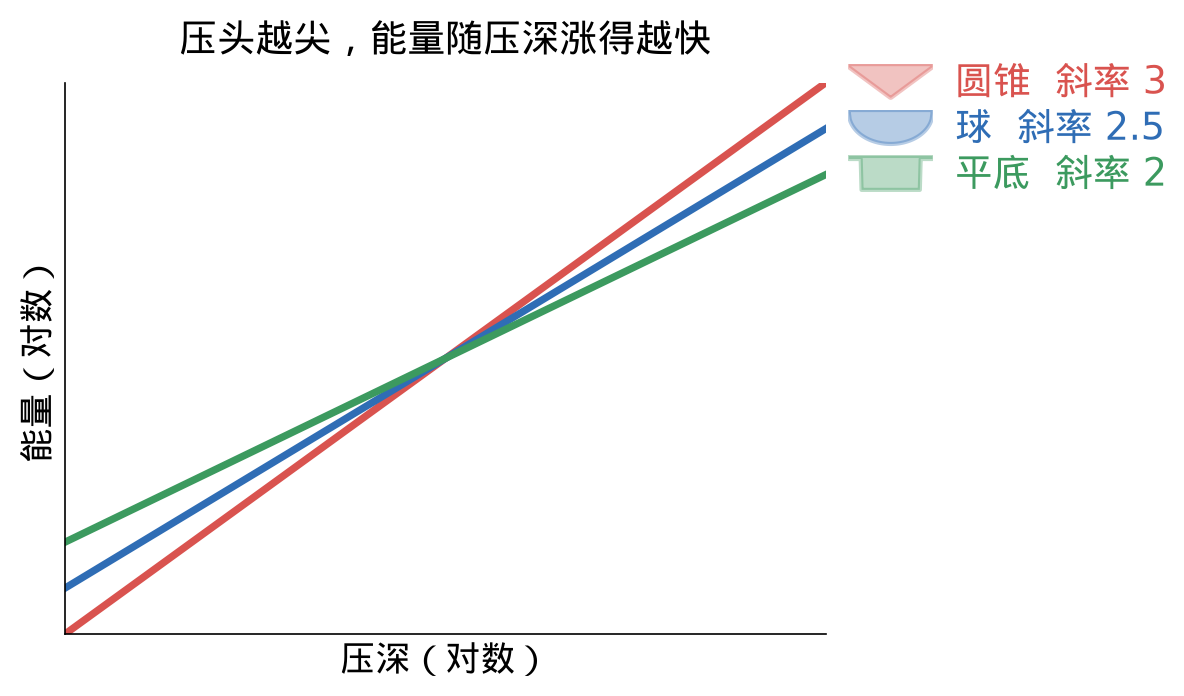
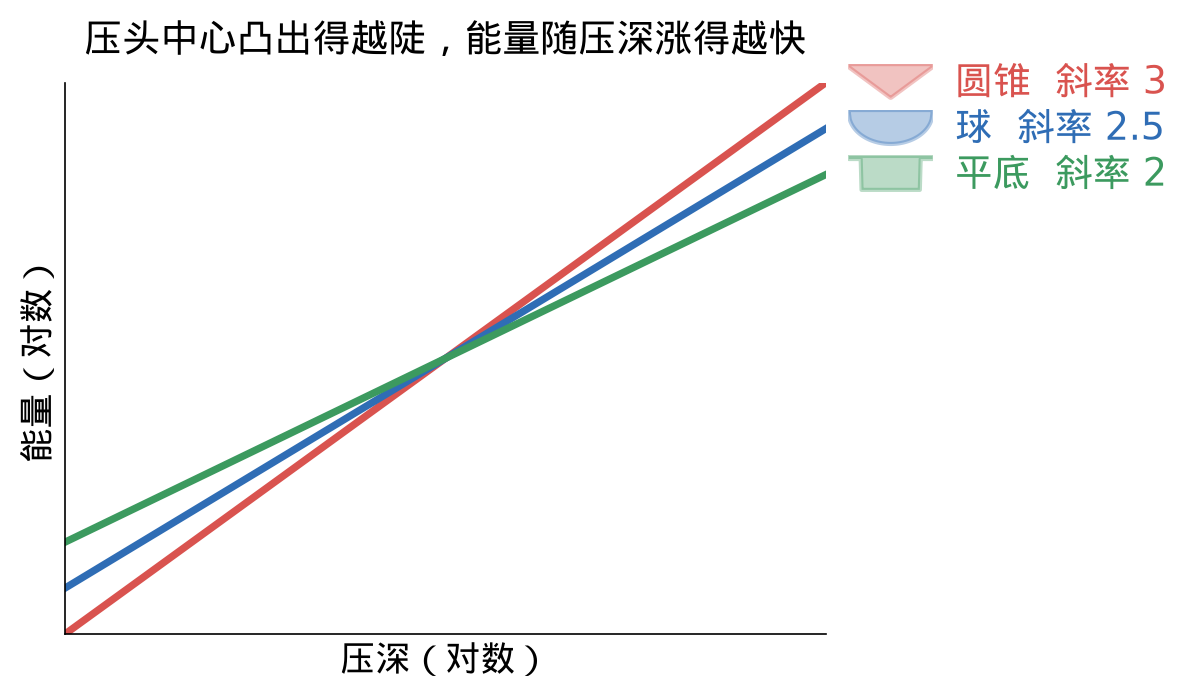
week3_4: 4.2 under rule 7; fig05 title and captions without 尖 (sandbox 87c9db3)

Changed region(s): [[0.0625, 0.0302, 0.6875, 0.0905]]

diff --git a/week3_4.html b/week3_4.html
@@ -254,7 +254,7 @@ footer.foot { color: var(--muted); font-size: 0.8rem; border-top: 1px solid var(
 
 <p>结果：球（\(n=2\)）是 2.5 次方，圆锥（\(n=1\)）是 3 次方，平底（\(n\to\infty\)）是 2 次方。压头中心凸出得越陡 → 能量随压深涨得越快，因为接触面积随压深涨得越快。</p>
 
-<figure style="margin:12px 0"><img src="assets/images/w34_fig05_power_law.png" style="width:548px;max-width:100%;height:auto" alt="这张图展示了压头形状怎样决定能量随压深涨得多快。横轴是压深，纵轴是能量，都取对数，所以每条线的斜率就是能量随压深的幂次，右边的小图标画的是对应的压头形状。通过对比红色圆锥线、蓝色球线、绿色平底线的倾斜程度，可以看出圆锥最陡（斜率 3），球居中（2.5），平底最缓（2），因为压头越尖，压深加大时接触面积涨得越快，能量也涨得越快。三条线的高低没有意义，只比斜率。" loading="lazy"><figcaption class="small">这张图展示了压头形状怎样决定能量随压深涨得多快。横轴是压深，纵轴是能量，都取对数，所以每条线的斜率就是能量随压深的幂次，右边的小图标画的是对应的压头形状。通过对比红色圆锥线、蓝色球线、绿色平底线的倾斜程度，可以看出圆锥最陡（斜率 3），球居中（2.5），平底最缓（2），因为压头越尖，压深加大时接触面积涨得越快，能量也涨得越快。三条线的高低没有意义，只比斜率。</figcaption></figure>
+<figure style="margin:12px 0"><img src="assets/images/w34_fig05_power_law.png" style="width:548px;max-width:100%;height:auto" alt="这张图展示了压头形状怎样决定能量随压深涨得多快。横轴是压深，纵轴是能量，都取对数，所以每条线的斜率就是能量随压深的幂次，右边的小图标画的是对应的压头形状。通过对比红色圆锥线、蓝色球线、绿色平底线的倾斜程度，可以看出圆锥最陡（斜率 3），球居中（2.5），平底最缓（2），因为压头中心凸出得越陡，压深加大时接触面积涨得越快，能量也涨得越快。三条线的高低没有意义，只比斜率。" loading="lazy"><figcaption class="small">这张图展示了压头形状怎样决定能量随压深涨得多快。横轴是压深，纵轴是能量，都取对数，所以每条线的斜率就是能量随压深的幂次，右边的小图标画的是对应的压头形状。通过对比红色圆锥线、蓝色球线、绿色平底线的倾斜程度，可以看出圆锥最陡（斜率 3），球居中（2.5），平底最缓（2），因为压头中心凸出得越陡，压深加大时接触面积涨得越快，能量也涨得越快。三条线的高低没有意义，只比斜率。</figcaption></figure>
 <details><summary>推导</summary><p>式 (4)–(6) 与「降维法」一节 ① 的起点式相同，按那一节的推导，它们给出：</p>
 <p>\[d=g(a),\qquad U_0=E^*\int_0^a\big(d-g(x)\big)^2dx,\qquad g(x)=|x|\int_0^{|x|}\frac{h&#x27;(r)}{\sqrt{x^2-r^2}}\,dr\]</p>
 <p>由式 (11) \(h=c\,r^n\) 得 \(h&#x27;(r)=c\,n\,r^{n-1}\)，代入 \(g\) 的积分，令 \(r=|x|\,t\)：</p>
@@ -296,9 +296,9 @@ footer.foot { color: var(--muted); font-size: 0.8rem; border-top: 1px solid var(
 </table></div>
 <p>比值越接近 1，标签越准。能量随压深的幂次（圆锥、\(y=c\,r^{1.5}\)、\(y=c\,r^{4}\)），标签给出 2.975 / 2.652 / 2.260，解析解是 3 / 2.667 / 2.25。</p>
 <figure style="margin:12px 0"><img src="assets/images/w34_s31_indenters_scene.png" style="width:850px;max-width:100%;height:auto" alt="这张图是 3.1 节四组实验压之前的样子，画的是过压头中心的剖面，竖直方向放大 4 倍，灰色是刚性压头，蓝色是软块。从左到右是平底圆柱、圆锥、轮廓高度随半径的 1.5 次方增长的曲面、半径 22.5 的大球冠，最右边那块软块只有 0.1 厚，底面粘在不动的底座上，所以下边缘在画面里能看到。下一张图是同样四组压到最深时的样子。" loading="lazy"><figcaption class="small">这张图是 3.1 节四组实验压之前的样子，画的是过压头中心的剖面，竖直方向放大 4 倍，灰色是刚性压头，蓝色是软块。从左到右是平底圆柱、圆锥、轮廓高度随半径的 1.5 次方增长的曲面、半径 22.5 的大球冠，最右边那块软块只有 0.1 厚，底面粘在不动的底座上，所以下边缘在画面里能看到。下一张图是同样四组压到最深时的样子。</figcaption></figure>
-<figure style="margin:12px 0"><img src="assets/images/w34_s31_indenters_pressed.png" style="width:850px;max-width:100%;height:auto" alt="这张图是 3.1 节和解析解对照的四组实验，每组都是一个灰色刚性压头压进一块蓝色软块（杨氏模量 1e5），画的是压到最深时过压头中心的剖面，竖直方向放大 4 倍。左上、右上、左下、右下依次是：半径 0.25 的平底圆柱压下 0.024；圆锥压下 0.012；轮廓高度随半径的 1.5 次方增长的曲面压下 0.024；半径 22.5 的大球冠压在只有 0.1 厚、底面粘牢的薄层上，压下 0.005。这四种形状的接触都有精确的解析解，表里的「标签 ÷ 解析解」就是拿这四组仿真算出的能量去除对应的解析能量。四幅剖面上描红的一段是 IPC 实际施加了接触力的块节点（压头的点落在块的三角形上时力分到三角形三个角，两条棱靠近时分到块那条棱的两端，所以红段比真正贴住的地方长出约一个网格单元），最深一档整面受力节点依次 399、161、137、1193 个。圆锥和 1.5 次方曲面这种尖的压头，主要是压头的点碰块的面，只量块上的点会漏掉，所以要两个方向都算。" loading="lazy"><figcaption class="small">这张图是 3.1 节和解析解对照的四组实验，每组都是一个灰色刚性压头压进一块蓝色软块（杨氏模量 1e5），画的是压到最深时过压头中心的剖面，竖直方向放大 4 倍。左上、右上、左下、右下依次是：半径 0.25 的平底圆柱压下 0.024；圆锥压下 0.012；轮廓高度随半径的 1.5 次方增长的曲面压下 0.024；半径 22.5 的大球冠压在只有 0.1 厚、底面粘牢的薄层上，压下 0.005。这四种形状的接触都有精确的解析解，表里的「标签 ÷ 解析解」就是拿这四组仿真算出的能量去除对应的解析能量。四幅剖面上描红的一段是 IPC 实际施加了接触力的块节点（压头的点落在块的三角形上时力分到三角形三个角，两条棱靠近时分到块那条棱的两端，所以红段比真正贴住的地方长出约一个网格单元），最深一档整面受力节点依次 399、161、137、1193 个。圆锥和 1.5 次方曲面这种尖的压头，主要是压头的点碰块的面，只量块上的点会漏掉，所以要两个方向都算。</figcaption></figure>
+<figure style="margin:12px 0"><img src="assets/images/w34_s31_indenters_pressed.png" style="width:850px;max-width:100%;height:auto" alt="这张图是 3.1 节和解析解对照的四组实验，每组都是一个灰色刚性压头压进一块蓝色软块（杨氏模量 1e5），画的是压到最深时过压头中心的剖面，竖直方向放大 4 倍。左上、右上、左下、右下依次是：半径 0.25 的平底圆柱压下 0.024；圆锥压下 0.012；轮廓高度随半径的 1.5 次方增长的曲面压下 0.024；半径 22.5 的大球冠压在只有 0.1 厚、底面粘牢的薄层上，压下 0.005。这四种形状的接触都有精确的解析解，表里的「标签 ÷ 解析解」就是拿这四组仿真算出的能量去除对应的解析能量。四幅剖面上描红的一段是 IPC 实际施加了接触力的块节点（压头的点落在块的三角形上时力分到三角形三个角，两条棱靠近时分到块那条棱的两端，所以红段比真正贴住的地方长出约一个网格单元），最深一档整面受力节点依次 399、161、137、1193 个。圆锥和 1.5 次方曲面这种中心凸出很陡的压头，主要是压头最前端的一点碰块的面，只量块上的点会漏掉，所以要两个方向都算。" loading="lazy"><figcaption class="small">这张图是 3.1 节和解析解对照的四组实验，每组都是一个灰色刚性压头压进一块蓝色软块（杨氏模量 1e5），画的是压到最深时过压头中心的剖面，竖直方向放大 4 倍。左上、右上、左下、右下依次是：半径 0.25 的平底圆柱压下 0.024；圆锥压下 0.012；轮廓高度随半径的 1.5 次方增长的曲面压下 0.024；半径 22.5 的大球冠压在只有 0.1 厚、底面粘牢的薄层上，压下 0.005。这四种形状的接触都有精确的解析解，表里的「标签 ÷ 解析解」就是拿这四组仿真算出的能量去除对应的解析能量。四幅剖面上描红的一段是 IPC 实际施加了接触力的块节点（压头的点落在块的三角形上时力分到三角形三个角，两条棱靠近时分到块那条棱的两端，所以红段比真正贴住的地方长出约一个网格单元），最深一档整面受力节点依次 399、161、137、1193 个。圆锥和 1.5 次方曲面这种中心凸出很陡的压头，主要是压头最前端的一点碰块的面，只量块上的点会漏掉，所以要两个方向都算。</figcaption></figure>
 <figure style="margin:12px 0"><img src="assets/images/w34_s3_1_ratio.png" style="width:524px;max-width:100%;height:auto" alt="这张图展示了四种压头上标签和解析解相差不到 1.2%。四列蓝点各是一种压头，每个点是一个压深或一个压头尺寸下的「标签 ÷ 解析解」，列上方的数字是这一列的最小到最大值，绿色实线是比值 1；蓝点都贴着绿线，往下最多偏 0.6%，往上最远的是圆锥的 1.011，所以这四种形状上的标签可信。" loading="lazy"><figcaption class="small">这张图展示了四种压头上标签和解析解相差不到 1.2%。四列蓝点各是一种压头，每个点是一个压深或一个压头尺寸下的「标签 ÷ 解析解」，列上方的数字是这一列的最小到最大值，绿色实线是比值 1；蓝点都贴着绿线，往下最多偏 0.6%，往上最远的是圆锥的 1.011，所以这四种形状上的标签可信。</figcaption></figure>
-<figure style="margin:12px 0"><img src="assets/images/w34_s3_1_slope.png" style="width:592px;max-width:100%;height:auto" alt="这张图展示了标签能量随压深增长的幂次和解析解一致。图用双对数坐标，幂函数在这种坐标里是直线，斜率就是幂次；三条实线是三种压头的标签能量，都除以各自第一个压深的能量、从 1 出发，同色虚线是解析解的斜率，两者重合，右侧标出的拟合幂次 2.97、2.65、2.26 与解析的 3、2.67、2.25 相差不到 1%，所以「压头越尖、能量随压深涨得越快」这个规律标签也给对了。" loading="lazy"><figcaption class="small">这张图展示了标签能量随压深增长的幂次和解析解一致。图用双对数坐标，幂函数在这种坐标里是直线，斜率就是幂次；三条实线是三种压头的标签能量，都除以各自第一个压深的能量、从 1 出发，同色虚线是解析解的斜率，两者重合，右侧标出的拟合幂次 2.97、2.65、2.26 与解析的 3、2.67、2.25 相差不到 1%，所以「压头越尖、能量随压深涨得越快」这个规律标签也给对了。</figcaption></figure>
+<figure style="margin:12px 0"><img src="assets/images/w34_s3_1_slope.png" style="width:592px;max-width:100%;height:auto" alt="这张图展示了标签能量随压深增长的幂次和解析解一致。图用双对数坐标，幂函数在这种坐标里是直线，斜率就是幂次；三条实线是三种压头的标签能量，都除以各自第一个压深的能量、从 1 出发，同色虚线是解析解的斜率，两者重合，右侧标出的拟合幂次 2.97、2.65、2.26 与解析的 3、2.67、2.25 相差不到 1%，所以「压头中心凸出得越陡、能量随压深涨得越快」这个规律标签也给对了。" loading="lazy"><figcaption class="small">这张图展示了标签能量随压深增长的幂次和解析解一致。图用双对数坐标，幂函数在这种坐标里是直线，斜率就是幂次；三条实线是三种压头的标签能量，都除以各自第一个压深的能量、从 1 出发，同色虚线是解析解的斜率，两者重合，右侧标出的拟合幂次 2.97、2.65、2.26 与解析的 3、2.67、2.25 相差不到 1%，所以「压头中心凸出得越陡、能量随压深涨得越快」这个规律标签也给对了。</figcaption></figure>
 <p>同样这三种幂律压头，按球调好参数的 hydro 最大误差依次是 26%、35%、68%：它的能量只看重叠了多少，压头形状一变，能量随压深的幂次就对不上，越偏离球误差越大。</p>
 <h3>两个相同软球同时放大一倍</h3>
 
@@ -449,13 +449,19 @@ footer.foot { color: var(--muted); font-size: 0.8rem; border-top: 1px solid var(
 
 <p>已知：三种情况的物体、位置、压深都一样；求：「同时压」与「单独压之和」的关系，hydro 与真值各是多少。</p>
 
-<p>\[\begin{cases}\color{#c0392b}{U^{\text{hydro}}_③=U^{\text{hydro}}_①+U^{\text{hydro}}_②} &amp; \color{#c0392b}{(1)}\\[4pt] \color{#c0392b}{U_③=c\,(U_①+U_②),\quad c&lt;1} &amp; \color{#c0392b}{(2)}\end{cases}\ \color{#c0392b}{\Longrightarrow\ \frac{U^{\text{hydro}}_③}{U^{\text{hydro}}_①+U^{\text{hydro}}_②}=1\ne c=\frac{U_③}{U_①+U_②}}\]</p>
-<p>式 (1)：\(U^{\text{hydro}}_①\)、\(U^{\text{hydro}}_②\)、\(U^{\text{hydro}}_③\) 是 hydro 在 P 单独压、Q 单独压、同时压时算出的能量。hydro 的能量是压力在重叠区上的积分，三种情况用的是同一组压力分布，P、Q 两处重叠区不相交，积分正好拆成两块，所以同时压的能量就是两次单独压之和。原因是 hydro 的压力只看「这一点重叠了多深」，不知道旁边还有一个压头。</p>
+<p>\[\begin{cases}\color{#c0392b}{U^{\text{hydro}}=\displaystyle\int_{\Omega}e\big(s(\mathbf x)\big)\,dV} &amp; \color{#c0392b}{(1)}\\[4pt] \color{#c0392b}{\Omega_③=\Omega_①\cup\Omega_②,\quad \Omega_①\cap\Omega_②=\varnothing} &amp; \color{#c0392b}{(2)}\\[4pt] \color{#c0392b}{c=\dfrac{U_③}{U_①+U_②}} &amp; \color{#c0392b}{(3)}\end{cases}\ \color{#c0392b}{\Longrightarrow\ U^{\text{hydro}}_③=U^{\text{hydro}}_①+U^{\text{hydro}}_②\ \ (4),\qquad U_③=c\,(U_①+U_②)\ \ (5)}\]</p>
+<p>式 (1)：hydro 能量的定义。\(\Omega\) 是两物体的重叠区，\(\mathbf x\) 是其中一点，\(s(\mathbf x)\) 是这一点在物体里的深度，\(e(s)\) 是由预设压力场决定的每单位体积能量，只看深度。它说的是：hydro 的能量是重叠区里每一小块按自己的深度算出的能量之和，与旁边有没有别的接触无关。</p>
 
-<p>式 (2)：\(U_①\)、\(U_②\)、\(U_③\) 是三种情况的真实能量，\(c\) 是同时压与单独压之和的比。真实弹性体里 P 压下去时，周围表面跟着陷，下沉随距离按 1/距离 衰减，Q 那里等于已经被压低了一点，需要压入的量变少，存的能量也就少了，所以 \(c&lt;1\)。边界元算出：中心距为接触半径 4 倍时 \(c=0.8606\)，10 倍时 \(c=0.9399\)。</p>
+<p>式 (2)：几何条件。\(\Omega_①\)、\(\Omega_②\)、\(\Omega_③\) 是 P 单独压、Q 单独压、同时压时的重叠区。它说的是：两个压头离得开，同时压的重叠区就是两块单独的重叠区拼起来，两块不相交。</p>
+
+<p>式 (3)：耦合系数的定义。\(U_①\)、\(U_②\)、\(U_③\) 是三种情况的真实能量，\(c\) 是同时压与单独压之和的比。真实弹性体里 P 压下去时，周围表面按 1/距离 跟着陷，Q 那里等于已经被压低了一点，需要压入的量变少，存的能量也就少了，所以 \(c&lt;1\)；边界元算出中心距为接触半径 4 倍时 \(c=0.8606\)，10 倍时 \(c=0.9399\)。</p>
 
 <p>结果：hydro 的比恒为 1，真值是 \(c\)。两个压头越近 → \(c\) 越小 → hydro 偏得越多，因为互相牵连越强，真实能量打的折越大。</p>
 
+<details><summary>推导</summary><p>由式 (2)，同时压的重叠区拆成不相交的两块，式 (1) 的积分随之拆开：</p>
+<p>\[U^{\text{hydro}}_③=\int_{\Omega_①}e\,dV+\int_{\Omega_②}e\,dV=U^{\text{hydro}}_①+U^{\text{hydro}}_②\qquad(4)\]</p>
+<p>式 (3) 两边乘 \(U_①+U_②\)：</p>
+<p>\[U_③=c\,(U_①+U_②)\qquad(5)\]</p></details>
 <figure style="margin:12px 0"><img src="assets/images/w34_fig08a_deadlock_three_cases.png" style="width:1318px;max-width:100%;height:auto" alt="这张图展示了两个压头一起压时 hydro 为什么一定会错。左边三幅图是同一块和两个压头 P、Q 的三种情况：① 只有 P 压，② 只有 Q 压，③ 两个一起压，灰色实心球是正在压的压头，虚线空圈是这一次没压的压头。第 ③ 幅里灰色虚线是块原来的表面，蓝色箭头指出两个凹陷在中间连成了一片。最右边的柱状图里，橙色柱是 hydro 算的 ③，由 ① 的能量和 ② 的能量叠起来，绿色柱是真实的 ③，灰色虚线是 ① 加 ② 的高度。通过对比两根柱子和它们之间的红色差距箭头，可以看出 P 压下去时把 Q 底下也带低了，Q 要压进去的量变少，所以真实能量只有两次单独压之和的 c 倍（两压头中心距为接触半径 4 倍时 c = 0.8606，少约 14%），但 hydro 的压力图不知道旁边还有压头，只能相加。" loading="lazy"><figcaption class="small">这张图展示了两个压头一起压时 hydro 为什么一定会错。左边三幅图是同一块和两个压头 P、Q 的三种情况：① 只有 P 压，② 只有 Q 压，③ 两个一起压，灰色实心球是正在压的压头，虚线空圈是这一次没压的压头。第 ③ 幅里灰色虚线是块原来的表面，蓝色箭头指出两个凹陷在中间连成了一片。最右边的柱状图里，橙色柱是 hydro 算的 ③，由 ① 的能量和 ② 的能量叠起来，绿色柱是真实的 ③，灰色虚线是 ① 加 ② 的高度。通过对比两根柱子和它们之间的红色差距箭头，可以看出 P 压下去时把 Q 底下也带低了，Q 要压进去的量变少，所以真实能量只有两次单独压之和的 c 倍（两压头中心距为接触半径 4 倍时 c = 0.8606，少约 14%），但 hydro 的压力图不知道旁边还有压头，只能相加。</figcaption></figure>
 <figure style="margin:12px 0"><img src="assets/images/w34_t6p_pair4_scene.png" style="width:895px;max-width:100%;height:auto" alt="这张图展示死结的平底情形：一个刚性压头上两个平底凸台（半径 0.1，中心距 0.4，即接触半径的 4 倍）同时压同一块软块，压到最深一档（0.012）停稳后。左幅是过两凸台中心的竖直剖面，竖直方向放大 5 倍，两个凸台把块面压下同样深，两凸台之间那段块面也被一起带着往下沉，比外侧略低，这就是两处接触互相影响的来源。右幅从正上方看块顶面，灰点是块面网格点，粉色是每个凸台底下各自的接触区。红色是 IPC 实际施加了接触力的块节点：压头的点落在块的某个三角形上时，力按位置分到这个三角形的三个角；两条棱靠近时，力分到块那条棱的两端。所以红色区域比真正贴住的地方大一圈，大约一个网格单元，网格越粗这圈越宽。最深一档两个凸台下整面受力节点共 162 个；凸台外那一圈红点是凸台边缘压在块的三角形上带进来的，离凸台面最远约 0.027。凸台底面是半径 0.1 的圆，接触区画出来是不规则的多边形、两个凸台还略有不同：这是粗网格（凸台半径只有 4 个点距）上 IPC 真实的受力节点，不是凸台形状。" loading="lazy"><figcaption class="small">这张图展示死结的平底情形：一个刚性压头上两个平底凸台（半径 0.1，中心距 0.4，即接触半径的 4 倍）同时压同一块软块，压到最深一档（0.012）停稳后。左幅是过两凸台中心的竖直剖面，竖直方向放大 5 倍，两个凸台把块面压下同样深，两凸台之间那段块面也被一起带着往下沉，比外侧略低，这就是两处接触互相影响的来源。右幅从正上方看块顶面，灰点是块面网格点，粉色是每个凸台底下各自的接触区。红色是 IPC 实际施加了接触力的块节点：压头的点落在块的某个三角形上时，力按位置分到这个三角形的三个角；两条棱靠近时，力分到块那条棱的两端。所以红色区域比真正贴住的地方大一圈，大约一个网格单元，网格越粗这圈越宽。最深一档两个凸台下整面受力节点共 162 个；凸台外那一圈红点是凸台边缘压在块的三角形上带进来的，离凸台面最远约 0.027。凸台底面是半径 0.1 的圆，接触区画出来是不规则的多边形、两个凸台还略有不同：这是粗网格（凸台半径只有 4 个点距）上 IPC 真实的受力节点，不是凸台形状。</figcaption></figure>
 <figure style="margin:12px 0"><img src="assets/images/w34_t6p_single02_scene.png" style="width:895px;max-width:100%;height:auto" alt="这张图是死结里「只压一个」的那次计算：同一块、同一压深，只留右边凸台（x = 0.2），画法同上一张。和上一张比，右凸台底下的接触区一样大（最深一档整面受力节点 81 个），但剖面上左边的块面不再被压下去。成对时块面整体先被另一个凸台带着沉了一点，所以每个凸台分到的弹性能比单压时少：两个一起压的能量是单压的 1.72 倍而不是 2 倍，对应 c ≈ 0.861，边界元给 0.8606。" loading="lazy"><figcaption class="small">这张图是死结里「只压一个」的那次计算：同一块、同一压深，只留右边凸台（x = 0.2），画法同上一张。和上一张比，右凸台底下的接触区一样大（最深一档整面受力节点 81 个），但剖面上左边的块面不再被压下去。成对时块面整体先被另一个凸台带着沉了一点，所以每个凸台分到的弹性能比单压时少：两个一起压的能量是单压的 1.72 倍而不是 2 倍，对应 c ≈ 0.861，边界元给 0.8606。</figcaption></figure>
@@ -464,26 +470,26 @@ footer.foot { color: var(--muted); font-size: 0.8rem; border-top: 1px solid var(
 <figure style="margin:12px 0"><img src="assets/images/w34_t6a_pair_pressed.png" style="width:543px;max-width:100%;height:auto" alt="这张图展示了两个压头同时压时，两个坑之间的块面也被一起带下去。图是上一张同一组实验让两个压头都压到 0.012 时，过两个压头中心的剖面，橙色是两个软压头，蓝色是块，竖直方向放大了 8 倍才看得清坑。两个坑底各沉了 0.0057，两坑正中间没有压头的地方也沉了 0.0020，约为坑深的三分之一，所以两处接触不能各算各的。" loading="lazy"><figcaption class="small">这张图展示了两个压头同时压时，两个坑之间的块面也被一起带下去。图是上一张同一组实验让两个压头都压到 0.012 时，过两个压头中心的剖面，橙色是两个软压头，蓝色是块，竖直方向放大了 8 倍才看得清坑。两个坑底各沉了 0.0057，两坑正中间没有压头的地方也沉了 0.0020，约为坑深的三分之一，所以两处接触不能各算各的。</figcaption></figure>
 <p><b>B hydro 至少错多少</b></p>
 
-<p>已知：A 的两个关系 \(U^{\text{hydro}}_③=U^{\text{hydro}}_①+U^{\text{hydro}}_②\) 与 \(U_③=c\,(U_①+U_②)\)；三种情况的相对误差都不超过 \(\varepsilon\)；求：\(\varepsilon\) 的下界。</p>
+<p>已知：A 推出的两个关系；三种情况的相对误差都不超过 \(\varepsilon\)；求：\(\varepsilon\) 的下界。</p>
 
-<p>\[\begin{cases}\color{#c0392b}{U^{\text{hydro}}_{①}\ge(1-\varepsilon)\,U_{①},\quad U^{\text{hydro}}_{②}\ge(1-\varepsilon)\,U_{②}} &amp; \color{#c0392b}{(1)}\\[4pt] \color{#c0392b}{U^{\text{hydro}}_③\le(1+\varepsilon)\,U_③} &amp; \color{#c0392b}{(2)}\\[4pt] \color{#c0392b}{U^{\text{hydro}}_③=U^{\text{hydro}}_①+U^{\text{hydro}}_②,\quad U_③=c\,(U_①+U_②)} &amp; \color{#c0392b}{(3)}\end{cases}\ \color{#c0392b}{\Longrightarrow\ \varepsilon\ge\frac{1-c}{1+c}}\]</p>
-<p>式 (1)：\(\varepsilon\) 是 hydro 允许的最大相对误差。误差不超过 \(\varepsilon\)，意味着单独压时 hydro 的能量至少是真值的 \(1-\varepsilon\) 倍，例如 \(\varepsilon\) 为 5% 时至少是真值的 95%。</p>
+<p>\[\begin{cases}\color{#c0392b}{U^{\text{hydro}}_③=U^{\text{hydro}}_①+U^{\text{hydro}}_②} &amp; \color{#c0392b}{(4)}\\[4pt] \color{#c0392b}{U_③=c\,(U_①+U_②)} &amp; \color{#c0392b}{(5)}\\[4pt] \color{#c0392b}{(1-\varepsilon)\,U_k\le U^{\text{hydro}}_k\le(1+\varepsilon)\,U_k,\quad k=①,②,③} &amp; \color{#c0392b}{(6)}\end{cases}\ \color{#c0392b}{\Longrightarrow\ \varepsilon\ge\frac{1-c}{1+c}\quad(7)}\]</p>
+<p>式 (4)：A 推出的 hydro 相加关系，同时压的能量恰好等于两次单独压之和。</p>
 
-<p>式 (2)：同理，同时压时 hydro 的能量至多是真值的 \(1+\varepsilon\) 倍。</p>
+<p>式 (5)：A 的真实能量关系，同时压的真实能量是单独压之和的 \(c\) 倍。</p>
 
-<p>式 (3)：A 得到的两个关系：hydro 的同时压恰好等于两次单独压之和，真值则打 \(c\) 折。</p>
+<p>式 (6)：相对误差的定义。\(\varepsilon\) 是 hydro 允许的最大相对误差，\(k\) 是三种情况之一。它说的是：每种情况下 hydro 的能量都落在真值的 \(1-\varepsilon\) 倍到 \(1+\varepsilon\) 倍之间，例如 \(\varepsilon\) 为 5% 时在真值的 95% 到 105% 之间。</p>
 
 <p>结果：代入 \(c\)，至少错 7.49%（4 倍间距）或 3.10%（10 倍间距），和压力分布怎么取无关；实际拟合得到 7.56% 和 3.13%。hydro 的「一起压」只能是「单独压之和」，真值却打了折，这个差必须分摊到某个地方；两边各分一半时误差最小，也就是这个数。</p>
 
 <figure style="margin:12px 0"><img src="assets/images/w34_fig08b_deadlock_bound.png" style="width:578px;max-width:100%;height:auto" alt="这张图展示了 hydro 的误差最低能降到多少。横轴是两个压头的中心距，以接触半径为单位，纵轴是 hydro 至少会有的误差，红色曲线就是这条下限。通过对比横轴「4 倍」处的黑点（至少错 7.49%）和「10 倍」处的黑点（至少错 3.10%），以及红色曲线随间距变小而升高的走势，可以看出两个压头越近，hydro 至少错得越多。曲线下的淡红色区域是 hydro 无论怎么调压力图都到不了的，所以这个误差由它的算法结构决定，与拟合好坏无关。" loading="lazy"><figcaption class="small">这张图展示了 hydro 的误差最低能降到多少。横轴是两个压头的中心距，以接触半径为单位，纵轴是 hydro 至少会有的误差，红色曲线就是这条下限。通过对比横轴「4 倍」处的黑点（至少错 7.49%）和「10 倍」处的黑点（至少错 3.10%），以及红色曲线随间距变小而升高的走势，可以看出两个压头越近，hydro 至少错得越多。曲线下的淡红色区域是 hydro 无论怎么调压力图都到不了的，所以这个误差由它的算法结构决定，与拟合好坏无关。</figcaption></figure>
-<details><summary>推导</summary><p>式 (1) \(U^{\text{hydro}}_①\ge(1-\varepsilon)U_①\)、\(U^{\text{hydro}}_②\ge(1-\varepsilon)U_②\) 两式相加：</p>
+<details><summary>推导</summary><p>式 (6) 用在 ①、②，取下限，两式相加：</p>
 <p>\[U^{\text{hydro}}_①+U^{\text{hydro}}_②\ge(1-\varepsilon)(U_①+U_②)\]</p>
-<p>左边用式 (3) \(U^{\text{hydro}}_③=U^{\text{hydro}}_①+U^{\text{hydro}}_②\) 换成同时压，再接式 (2) \(U^{\text{hydro}}_③\le(1+\varepsilon)U_③\)，其中 \(U_③=c\,(U_①+U_②)\)：</p>
+<p>左边由式 (4) 换成 \(U^{\text{hydro}}_③\)，再用式 (6) 在 ③ 的上限与式 (5) \(U_③=c(U_①+U_②)\)：</p>
 <p>\[(1-\varepsilon)(U_①+U_②)\le U^{\text{hydro}}_③\le(1+\varepsilon)\,c\,(U_①+U_②)\]</p>
 <p>两边除以 \(U_①+U_②\)：</p>
 <p>\[1-\varepsilon\le c+c\,\varepsilon\]</p>
 <p>移项：</p>
-<p>\[\varepsilon\ge\frac{1-c}{1+c}\]</p></details>
+<p>\[\varepsilon\ge\frac{1-c}{1+c}\qquad(7)\]</p></details>
 <p>不分摊、只拟准其中一部分也没用，另一部分就按推导的量和方向错。只拿两次单独压训练，训练误差到机器精度（\(10^{-15}\)），去预测同时压时多出 16.19%（4 倍间距）和 6.40%（10 倍间距），正好是 \(1/c-1\)；拿同时压和 P 单独压训练，去预测 Q 单独压时少了 27.87% 和 12.03%，正好是 \(2c-2\)。能对上这个构型，就一定对不上另一个。</p>
 <p>两个物体都软时死结仍在。把上面的两个刚性平底换成两个和块一样软的球冠头压头（3.5 节），代入边界元给的 \(c\)，hydro 至少错 2.28%、2.78%、3.20%（压深 0.006、0.009、0.012）。比平底小，因为一半变形发生在球里，传给另一处的少。</p>
 <p><b>C 辅助论证：压力只随深度变时的下界</b></p>
@@ -491,24 +497,26 @@ footer.foot { color: var(--muted); font-size: 0.8rem; border-top: 1px solid var(
 <p>还有一组辅助实验：环面、波浪面、两种材料三组，每组用半径 1 和 0.5 两个刚球压头，分别压两个块（环面的顶部和内圈、波浪面的波峰和波谷、杨氏模量 \(10^5\) 和 \(2\times10^5\) 的两个平块），一共四种组合，每种组合各造一条标签。</p>
 <p>已知：hydro++ 的压力场只随离表面的深度变；四种组合的标签；求：这种场能否同时对上四种组合。</p>
 
-<p>\[\begin{cases}\color{#c0392b}{p=c\sqrt s} &amp; \color{#c0392b}{(1)}\\[4pt] \color{#c0392b}{c_{\text{合}}^{-2}=c_A^{-2}+c_B^{-2}} &amp; \color{#c0392b}{(2)}\\[4pt] \color{#c0392b}{T_{ij}=u_i+v_j} &amp; \color{#c0392b}{(3)}\end{cases}\ \color{#c0392b}{\Longrightarrow\ T_{11}+T_{22}=T_{12}+T_{21}}\]</p>
-<p>式 (1)：\(s\) 是离表面的深度，\(p\) 是该处的压力，\(c\) 是这个物体的场强度。要让能量对上 Hertz 的压深 2.5 次方，只随深度变的场只能取平方根这一种形状，所以每个物体只剩一个强度 \(c\) 可调。</p>
+<p>\[\begin{cases}\color{#c0392b}{p=\kappa\sqrt s} &amp; \color{#c0392b}{(8)}\\[4pt] \color{#c0392b}{\kappa_{\text{合}}^{-2}=\kappa_A^{-2}+\kappa_B^{-2}} &amp; \color{#c0392b}{(9)}\\[4pt] \color{#c0392b}{T_{ij}=\kappa_{\text{合},ij}^{-2},\quad u_i=\kappa_{P_i}^{-2},\quad v_j=\kappa_{B_j}^{-2}} &amp; \color{#c0392b}{(10)}\end{cases}\ \color{#c0392b}{\Longrightarrow\ T_{11}+T_{22}=T_{12}+T_{21}\quad(11)}\]</p>
+<p>式 (8)：hydro++ 压力场的前提形式。\(s\) 是离表面的深度，\(p\) 是该处的压力，\(\kappa\) 是这个物体的场强度。它说的是：压力只随深度变，并取能让能量对上 Hertz 压深 2.5 次方的平方根形状，所以每个物体只剩一个强度 \(\kappa\) 可调。</p>
 
-<p>式 (2)：\(c_A\)、\(c_B\) 是两个物体各自的强度，\(c_{\text{合}}\) 是压在一起时的等效强度。它说的是：两边像串联的弹簧，把柔度相加，这里柔度就是强度的负二次方。</p>
+<p>式 (9)：两个场的合成规则。\(\kappa_A\)、\(\kappa_B\) 是两个物体各自的强度，\(\kappa_{\text{合}}\) 是压在一起时的等效强度。它说的是：两边像串联的弹簧，把柔度相加，这里柔度就是强度的负二次方。</p>
 
-<p>式 (3)：\(T_{ij}\) 是第 \(i\) 个压头压第 \(j\) 个块时所需的柔度，\(u_i\) 是压头那一份，\(v_j\) 是块那一份。由式 (2) \(c_{\text{合}}^{-2}=c_A^{-2}+c_B^{-2}\)，每种组合的柔度只能是「压头一份加块一份」。</p>
+<p>式 (10)：柔度的记号。\(T_{ij}\) 是第 \(i\) 个压头压第 \(j\) 个块时的合成柔度，\(u_i\) 是第 \(i\) 个压头自身的柔度，\(v_j\) 是第 \(j\) 个块自身的柔度。</p>
 
 <p>结果：对角两格之和必须相等，标签给出的并不相等：环面 1.328 对 1.539，波浪面 1.431 对 1.611，材料 1.125 对 0.751。hydro++ 只能把这个差摊到四种组合上，摊得最匀时至少分别错 3.7%、3.0% 和 10.1%。真实接触的结果还和两边怎么搭配有关，加法凑不出来。这个下界依赖「压力只随深度变」这一前提，所以只算辅助论证；主论证是 B 的死结，那里不管压力分布怎么取都成立。</p>
 
 <figure style="margin:12px 0"><img src="assets/images/w34_s4_2_t5_tables.png" style="width:947px;max-width:100%;height:auto" alt="这张图展示了如果每个物体的压力场只随离表面的深度变，hydro++ 在环面、波浪面、两种材料三组实验上至少错 3.7%、3.0%、10.1%。每组下面是一个 2×2 格子，行是半径 1 和 0.5 两个刚球压头，列是两个块（环面的顶部和内圈、波浪面的波峰和波谷、两块杨氏模量 1e5 和 2e5 的平块），①到④是四种组合；上面一排是半径 1 那一行各构型从正上方看块顶面的接触斑，每张放在对应那一列正上方：灰点是块面的网格点，离球面不到 4 倍间隙 \(\hat d\) 的点涂成红色，粉色是红点围出的接触区；平块上是圆，环面内圈被拉成很扁的长条，波谷也比波峰宽，可见块面怎么弯决定了接触斑的形状。两种材料的块形状相同，只放 E 1e5 那一张。格子里的数是由标签算出的串联柔度 T：hydro++ 在这种场下给每个物体一份柔度，两物体压在一起时两份相加，所以四格的 T 必须能拆成「行的一份加列的一份」，等价于对角两格之和 ①+④ 等于另两格之和 ②+③。标签里这两个和并不相等，环面 1.328 对 1.539、波浪面 1.431 对 1.611、材料 1.125 对 0.751，hydro++ 只能把这个差摊到四个构型上，最好的摊法也有下方红字那么大的能量误差，材料组差得最多。这个下界依赖「压力只随深度变」的 √ 型场这一前提，允许场在三维里任意变化时不一定成立，所以只作为 §4.2 死结之外的辅助论证。" loading="lazy"><figcaption class="small">这张图展示了如果每个物体的压力场只随离表面的深度变，hydro++ 在环面、波浪面、两种材料三组实验上至少错 3.7%、3.0%、10.1%。每组下面是一个 2×2 格子，行是半径 1 和 0.5 两个刚球压头，列是两个块（环面的顶部和内圈、波浪面的波峰和波谷、两块杨氏模量 1e5 和 2e5 的平块），①到④是四种组合；上面一排是半径 1 那一行各构型从正上方看块顶面的接触斑，每张放在对应那一列正上方：灰点是块面的网格点，离球面不到 4 倍间隙 \(\hat d\) 的点涂成红色，粉色是红点围出的接触区；平块上是圆，环面内圈被拉成很扁的长条，波谷也比波峰宽，可见块面怎么弯决定了接触斑的形状。两种材料的块形状相同，只放 E 1e5 那一张。格子里的数是由标签算出的串联柔度 T：hydro++ 在这种场下给每个物体一份柔度，两物体压在一起时两份相加，所以四格的 T 必须能拆成「行的一份加列的一份」，等价于对角两格之和 ①+④ 等于另两格之和 ②+③。标签里这两个和并不相等，环面 1.328 对 1.539、波浪面 1.431 对 1.611、材料 1.125 对 0.751，hydro++ 只能把这个差摊到四个构型上，最好的摊法也有下方红字那么大的能量误差，材料组差得最多。这个下界依赖「压力只随深度变」的 √ 型场这一前提，允许场在三维里任意变化时不一定成立，所以只作为 §4.2 死结之外的辅助论证。</figcaption></figure>
-<details><summary>推导</summary><p>由式 (3) \(T_{ij}=u_i+v_j\) 写出四格：</p>
+<details><summary>推导</summary><p>把式 (10) 的记号代入式 (9)，每种组合的合成柔度是两份之和：</p>
+<p>\[T_{ij}=u_i+v_j\]</p>
+<p>写出四格：</p>
 <p>\[T_{11}=u_1+v_1,\quad T_{22}=u_2+v_2,\quad T_{12}=u_1+v_2,\quad T_{21}=u_2+v_1\]</p>
 <p>对角两格分别相加：</p>
-<p>\[T_{11}+T_{22}=u_1+u_2+v_1+v_2=T_{12}+T_{21}\]</p></details>
+<p>\[T_{11}+T_{22}=u_1+u_2+v_1+v_2=T_{12}+T_{21}\qquad(11)\]</p></details>
 <h3>能记住，学不会</h3>
 
 <p>15 个物体两两配对，共 102 对：68 对给 hydro++ 训练，10 对用来调平滑正则，24 对留作测试。测试的每一对，两个物体在训练里都分别出现过，只是没有以这种组合一起出现过。hydro++ 在训练过的配对上误差 0.0003%，在没见过的配对上最大 12.12%。它能背下见过的，但没学到「答案只取决于缝隙和合成模量」这条规律。</p>
-<figure style="margin:12px 0"><img src="assets/images/w34_fig12_hydropp_15_objects.png" style="width:1072px;max-width:100%;height:auto" alt="这张图展示了 hydro++ 泛化实验用的 15 个物体以及配对的划分方式。左边每一列是一种形状，依次是半径 1 的球、半径 2 的球、圆锥、幂律 k = 1.5 的尖头和平面，每个物体朝下的那条边就是它的表面轮廓；每一行是一种杨氏模量 E（1×10⁵、2×10⁵、4×10⁵），颜色越深越硬。右边的 3×3 方格以「球 R=1 对球 R=2」这一对形状为例，行是球 R=1 的模量，列是球 R=2 的模量，每格是一个具体配对，绿色是训练，红色是测试，灰色是验证。通过对比红色测试格和它所在行、所在列里的绿色训练格，可以看出每一行、每一列都有两个训练格，所以测试配对里的两个物体都在训练里和别的对手配过，只是这两个没有一起出现过。其余形状对也这样分，全部 102 对里训练 68 对、验证 10 对、测试 24 对，测试考的就是 hydro++ 能不能从见过的配对推出没见过的组合。" loading="lazy"><figcaption class="small">这张图展示了 hydro++ 泛化实验用的 15 个物体以及配对的划分方式。左边每一列是一种形状，依次是半径 1 的球、半径 2 的球、圆锥、幂律 k = 1.5 的尖头和平面，每个物体朝下的那条边就是它的表面轮廓；每一行是一种杨氏模量 E（1×10⁵、2×10⁵、4×10⁵），颜色越深越硬。右边的 3×3 方格以「球 R=1 对球 R=2」这一对形状为例，行是球 R=1 的模量，列是球 R=2 的模量，每格是一个具体配对，绿色是训练，红色是测试，灰色是验证。通过对比红色测试格和它所在行、所在列里的绿色训练格，可以看出每一行、每一列都有两个训练格，所以测试配对里的两个物体都在训练里和别的对手配过，只是这两个没有一起出现过。其余形状对也这样分，全部 102 对里训练 68 对、验证 10 对、测试 24 对，测试考的就是 hydro++ 能不能从见过的配对推出没见过的组合。</figcaption></figure>
+<figure style="margin:12px 0"><img src="assets/images/w34_fig12_hydropp_15_objects.png" style="width:1072px;max-width:100%;height:auto" alt="这张图展示了 hydro++ 泛化实验用的 15 个物体以及配对的划分方式。左边每一列是一种形状，依次是半径 1 的球、半径 2 的球、圆锥、中心按 1.5 次方凸出的幂律压头和平面，每个物体朝下的那条边就是它的表面轮廓；每一行是一种杨氏模量 E（1×10⁵、2×10⁵、4×10⁵），颜色越深越硬。右边的 3×3 方格以「球 R=1 对球 R=2」这一对形状为例，行是球 R=1 的模量，列是球 R=2 的模量，每格是一个具体配对，绿色是训练，红色是测试，灰色是验证。通过对比红色测试格和它所在行、所在列里的绿色训练格，可以看出每一行、每一列都有两个训练格，所以测试配对里的两个物体都在训练里和别的对手配过，只是这两个没有一起出现过。其余形状对也这样分，全部 102 对里训练 68 对、验证 10 对、测试 24 对，测试考的就是 hydro++ 能不能从见过的配对推出没见过的组合。" loading="lazy"><figcaption class="small">这张图展示了 hydro++ 泛化实验用的 15 个物体以及配对的划分方式。左边每一列是一种形状，依次是半径 1 的球、半径 2 的球、圆锥、中心按 1.5 次方凸出的幂律压头和平面，每个物体朝下的那条边就是它的表面轮廓；每一行是一种杨氏模量 E（1×10⁵、2×10⁵、4×10⁵），颜色越深越硬。右边的 3×3 方格以「球 R=1 对球 R=2」这一对形状为例，行是球 R=1 的模量，列是球 R=2 的模量，每格是一个具体配对，绿色是训练，红色是测试，灰色是验证。通过对比红色测试格和它所在行、所在列里的绿色训练格，可以看出每一行、每一列都有两个训练格，所以测试配对里的两个物体都在训练里和别的对手配过，只是这两个没有一起出现过。其余形状对也这样分，全部 102 对里训练 68 对、验证 10 对、测试 24 对，测试考的就是 hydro++ 能不能从见过的配对推出没见过的组合。</figcaption></figure>
 <figure style="margin:12px 0"><img src="assets/images/w34_s4_3_memorize.png" style="width:554px;max-width:100%;height:auto" alt="这张图展示了 hydro++ 能记住见过的配对，但推不到没见过的配对。左边蓝点是 464 个训练构型的误差，最大 0.0003%；右边红点是 240 个两物体没有一起出现过的构型，最大 12.12%，近一半在灰色 1% 线上方，两团相差三个多数量级。所以 hydro++ 记住的是每一对的答案，没有学到「能量只取决于缝隙和合成模量」这条规律。" loading="lazy"><figcaption class="small">这张图展示了 hydro++ 能记住见过的配对，但推不到没见过的配对。左边蓝点是 464 个训练构型的误差，最大 0.0003%；右边红点是 240 个两物体没有一起出现过的构型，最大 12.12%，近一半在灰色 1% 线上方，两团相差三个多数量级。所以 hydro++ 记住的是每一对的答案，没有学到「能量只取决于缝隙和合成模量」这条规律。</figcaption></figure>
 <h3>自由度再多也只是背下来</h3>
 
@@ -567,39 +575,41 @@ footer.foot { color: var(--muted); font-size: 0.8rem; border-top: 1px solid var(
 
 <p>已知：各接触区的力 \(F_i\)、两区中心距 \(r_{ij}\)、被压物体的有效硬度 \(E&#x27;\)、5.1 节的单区模型；求：各区的总压深 \(\delta_i\)。</p>
 
-<p>\[\begin{cases}\color{#c0392b}{u(r)=\dfrac{F}{\pi E&#x27;\,r}} &amp; \color{#c0392b}{(1)}\\[4pt] \color{#c0392b}{\delta_i=\delta_{e,i}(F_i)+\sum_{j\ne i}u_j(r_{ij})} &amp; \color{#c0392b}{(2)}\end{cases}\ \color{#c0392b}{\Longrightarrow\ \delta_i=\delta_{e,i}(F_i)+\sum_{j\ne i}\frac{F_j}{\pi E&#x27;\,r_{ij}}}\]</p>
-<p>式 (1)：\(F\) 是压在表面一点上的集中力，\(r\) 是离这一点的距离，\(u(r)\) 是该处表面的下沉，\(E&#x27;\) 是被压物体的有效硬度。它说的是：按住一点，距离 \(r\) 处的表面也跟着陷，陷的量与距离成反比、与材料硬度成反比；远一倍，陷一半。它是 2.1 节下沉公式 \(u_i=\frac{1}{E_i&#x27;}\cdot\frac1\pi\int\frac{p(\mathbf x&#x27;)}{|\mathbf x-\mathbf x&#x27;|}d\mathbf x&#x27;\) 在压力全部集中在一点时的情形：积分只剩这一点，总压力就是 \(F\)。原理是线弹性里下沉与载荷成正比，点力的下沉随距离按 1/距离 衰减。</p>
+<p>\[\begin{cases}\color{#c0392b}{u(r)=\dfrac{F}{\pi E&#x27;\,r}} &amp; \color{#c0392b}{(1)}\\[4pt] \color{#c0392b}{\delta_i=\delta_{e,i}(F_i)+\sum_{j\ne i}u_j(r_{ij})} &amp; \color{#c0392b}{(2)}\end{cases}\ \color{#c0392b}{\Longrightarrow\ \delta_i=\delta_{e,i}(F_i)+\sum_{j\ne i}\frac{F_j}{\pi E&#x27;\,r_{ij}}\quad(3)}\]</p>
+<p>式 (1)：弹性半空间的点力解。\(F\) 是压在表面一点上的集中力，\(r\) 是离这一点的距离，\(u(r)\) 是该处表面的下沉，\(E&#x27;\) 是被压物体的有效硬度。它说的是：按住一点，距离 \(r\) 处的表面也跟着陷，陷的量与距离成反比、与材料硬度成反比，远一倍陷一半；原因是线弹性里下沉与载荷成正比，点力的影响随距离按 1/距离 衰减。</p>
 
-<p>式 (2)：\(\delta_i\) 是第 \(i\) 区的总压深，\(\delta_{e,i}(F_i)\) 是只靠自己的接触、力为 \(F_i\) 时要压多深，由 5.1 节的单区模型给出，\(u_j(r_{ij})\) 是第 \(j\) 区的力在第 \(i\) 区造成的下沉。它说的是：每个接触区的压深，一部分是自己压出来的，另一部分是别的接触区把整片表面带着压下去的。</p>
+<p>式 (2)：线弹性叠加。\(\delta_i\) 是第 \(i\) 区的总压深，\(\delta_{e,i}(F_i)\) 是只靠自己的接触、力为 \(F_i\) 时要压多深，由 5.1 节的单区模型给出，\(u_j(r_{ij})\) 是第 \(j\) 区的力在第 \(i\) 区造成的下沉，\(r_{ij}\) 是两区中心距。它说的是：线弹性下各处载荷的效果可以直接相加，所以每个接触区的压深 = 自己压出来的 + 别的接触区把整片表面带着压下去的。</p>
 
 <p>结果：给定各区压深，解这组方程就得到各区的力。别的区力越大、离得越近 → 本区被带下去越多，自己需要压的越少。</p>
 
 <details><summary>推导</summary><p>把式 (1) \(u(r)=F/(\pi E&#x27;r)\) 中的 \(F\)、\(r\) 换成第 \(j\) 区的力和两区中心距：</p>
 <p>\[u_j(r_{ij})=\frac{F_j}{\pi E&#x27;\,r_{ij}}\]</p>
-<p>代入式 (2) \(\delta_i=\delta_{e,i}(F_i)+\sum_{j\ne i}u_j(r_{ij})\)：</p>
-<p>\[\delta_i=\delta_{e,i}(F_i)+\sum_{j\ne i}\frac{F_j}{\pi E&#x27;\,r_{ij}}\]</p></details>
+<p>代入式 (2)：</p>
+<p>\[\delta_i=\delta_{e,i}(F_i)+\sum_{j\ne i}\frac{F_j}{\pi E&#x27;\,r_{ij}}\qquad(3)\]</p></details>
 <p><b>② 两个平底压头检验</b></p>
 
 <p>已知：两个相同的平底压头，半径 \(a\)，中心距 \(r\)，同时压到同一深度 \(\delta\)；求：同时压与单独压的能量之比 \(c\)。</p>
 
-<p>\[\begin{cases}\color{#c0392b}{F_1=2E&#x27;a\,\delta} &amp; \color{#c0392b}{(1)}\\[4pt] \color{#c0392b}{\delta=\delta_e(F)+\dfrac{F}{\pi E&#x27;r}} &amp; \color{#c0392b}{(2)}\\[4pt] \color{#c0392b}{U=\tfrac12F\delta} &amp; \color{#c0392b}{(3)}\end{cases}\ \color{#c0392b}{\Longrightarrow\ c=\frac{U_③}{U_①+U_②}=\frac{1}{1+\dfrac{2a}{\pi r}}}\]</p>
-<p>式 (1)：\(a\) 是平底半径，\(\delta\) 是压深，\(F_1\) 是单个平底单独压时的力。它说的是：平底压进去时接触面积不变，力与压深成正比，比例是 \(2E&#x27;a\)，平底越宽越硬。</p>
+<p>\[\begin{cases}\color{#c0392b}{\delta_i=\delta_{e,i}(F_i)+\sum_{j\ne i}\dfrac{F_j}{\pi E&#x27;\,r_{ij}}} &amp; \color{#c0392b}{(3)}\\[4pt] \color{#c0392b}{F_1=2E&#x27;a\,\delta} &amp; \color{#c0392b}{(4)}\\[4pt] \color{#c0392b}{U=\tfrac12F\delta} &amp; \color{#c0392b}{(5)}\\[4pt] \color{#c0392b}{c=\dfrac{U_③}{U_①+U_②}} &amp; \color{#c0392b}{(6)}\end{cases}\ \color{#c0392b}{\Longrightarrow\ c=\frac{1}{1+\dfrac{2a}{\pi r}}\quad(7)}\]</p>
+<p>式 (3)：① 推出的多区压深关系，本区压深 = 自己压的 + 别处带下去的。</p>
 
-<p>式 (2)：\(F\) 是两个同时压时每个平底的力，\(\delta_e(F)\) 是只靠自己时力为 \(F\) 要压的深度，由式 (1) \(F_1=2E&#x27;a\,\delta\) 反过来得到。它说的是：把 ① 的 \(\delta_i=\delta_{e,i}(F_i)+\sum_{j\ne i}F_j/(\pi E&#x27;r_{ij})\) 用在两个相同平底上，每个平底的压深 = 自己压的 + 被另一个带下去的。</p>
+<p>式 (4)：平底压头的解。\(a\) 是平底半径，\(\delta\) 是压深，\(F_1\) 是单个平底单独压时的力。它说的是：平底压进去时接触面积不变，力与压深成正比，比例是 \(2E&#x27;a\)，平底越宽越硬。</p>
 
-<p>式 (3)：\(U\) 是能量。力与压深成正比时，力从 0 线性涨到终值，平均只有一半在做功。</p>
+<p>式 (5)：线弹性做功。\(U\) 是能量。力与压深成正比时，力从 0 线性涨到终值，平均只有一半在做功。</p>
 
-<p>结果：\(U_①\)、\(U_②\)、\(U_③\) 是 P 单独、Q 单独、同时压的能量，同 4.2 节。中心距为 4 倍半径时 \(c=0.863\)、10 倍时 \(0.940\)，边界元为 0.861 和 0.940；两个软球压同一软块时，与边界元相差不到 0.07%。两个压头越近 → \(c\) 越小，因为互相带下去的越多。4.2 节里 hydro 怎么都做不对的那件事，在这里是结构本身就带着的一项。</p>
+<p>式 (6)：耦合系数的定义。\(U_①\)、\(U_②\)、\(U_③\) 是 P 单独、Q 单独、同时压的能量，同 4.2 节。</p>
+
+<p>结果：中心距为 4 倍半径时 \(c=0.863\)、10 倍时 \(0.940\)，边界元为 0.861 和 0.940；两个软球压同一软块时，与边界元相差不到 0.07%。两个压头越近 → \(c\) 越小，因为互相带下去的越多。4.2 节里 hydro 怎么都做不对的那件事，在这里是结构本身就带着的一项。</p>
 
 <figure style="margin:12px 0"><img src="assets/images/w34_s5_2_scene_flat.png" style="width:518px;max-width:100%;height:auto" alt="这张图展示了下面那张耦合系数图里平底那组边界元算的情形：两个刚性平底圆柱（半径 a = 0.1，中心距 4a）同时压进弹性块 0.006，图是沿两个平底中心连线竖直剖开的截面，竖直方向放大了 30 倍。两个灰色矩形是平底的剖面，蓝色是块的剖面，灰色虚线是块原来的表面；平底底面贴在块被压下的平坑里，两坑之间的块面没有被压头碰到，也被带低了 0.56 倍压深，比外侧远处更低，这部分就是一个压头替另一个压头提前压下去的量，也就是两区写法里的耦合项。" loading="lazy"><figcaption class="small">这张图展示了下面那张耦合系数图里平底那组边界元算的情形：两个刚性平底圆柱（半径 a = 0.1，中心距 4a）同时压进弹性块 0.006，图是沿两个平底中心连线竖直剖开的截面，竖直方向放大了 30 倍。两个灰色矩形是平底的剖面，蓝色是块的剖面，灰色虚线是块原来的表面；平底底面贴在块被压下的平坑里，两坑之间的块面没有被压头碰到，也被带低了 0.56 倍压深，比外侧远处更低，这部分就是一个压头替另一个压头提前压下去的量，也就是两区写法里的耦合项。</figcaption></figure>
 <figure style="margin:12px 0"><img src="assets/images/w34_s5_2_scene_spheres.png" style="width:537px;max-width:100%;height:auto" alt="这张图展示了下面那张耦合系数图里软球那组边界元算的情形：两个半径 1、和块一样软的球，中心距 0.438，同时压进块 0.006，图是沿两球心连线竖直剖开的截面，竖直方向放大了 20 倍。橙色是两个球下部的剖面，蓝色是块的剖面，灰色虚线是块原来的表面；接触处球面和块面贴在一起，块面最深只下沉 0.52 倍压深，另一半由球自己被压扁吃掉，两球之间的块面只被带低 0.14 倍压深，所以软球之间的相互影响比平底弱。下幅是从正上方看块面：灰点是边界元在两个软球底下各自的计算节点，接触压力大于零的涂红，粉色是各自的接触区；两块接触区都是圆、大小相同，半径约 0.073（节点间距 0.009）。" loading="lazy"><figcaption class="small">这张图展示了下面那张耦合系数图里软球那组边界元算的情形：两个半径 1、和块一样软的球，中心距 0.438，同时压进块 0.006，图是沿两球心连线竖直剖开的截面，竖直方向放大了 20 倍。橙色是两个球下部的剖面，蓝色是块的剖面，灰色虚线是块原来的表面；接触处球面和块面贴在一起，块面最深只下沉 0.52 倍压深，另一半由球自己被压扁吃掉，两球之间的块面只被带低 0.14 倍压深，所以软球之间的相互影响比平底弱。下幅是从正上方看块面：灰点是边界元在两个软球底下各自的计算节点，接触压力大于零的涂红，粉色是各自的接触区；两块接触区都是圆、大小相同，半径约 0.073（节点间距 0.009）。</figcaption></figure>
 <figure style="margin:12px 0"><img src="assets/images/w34_s5_2_coupling.png" style="width:522px;max-width:100%;height:auto" alt="这张图展示了「两区加耦合」的写法算出的耦合系数 c 和边界元对得上。c 是两个压头同时压时的能量除以各自单独压的能量之和，c 越小，两处互相影响越强；横轴是两接触区中心距除以接触半径。蓝线是两个平底按公式 1/(1+2a/(πr)) 算的 c，两个黑框是边界元在 4a 和 10a 处的结果，旁边写着边界元 0.861、0.940 和公式 0.863、0.940；橙色三角是两个与块同模量的软球（半径 1，中心距 0.438，三个压深），实心是公式、空心是边界元，两者重合，最多差 0.055%。软球的 c 比同距离的平底高，因为一半变形发生在球里，传到另一处的少。" loading="lazy"><figcaption class="small">这张图展示了「两区加耦合」的写法算出的耦合系数 c 和边界元对得上。c 是两个压头同时压时的能量除以各自单独压的能量之和，c 越小，两处互相影响越强；横轴是两接触区中心距除以接触半径。蓝线是两个平底按公式 1/(1+2a/(πr)) 算的 c，两个黑框是边界元在 4a 和 10a 处的结果，旁边写着边界元 0.861、0.940 和公式 0.863、0.940；橙色三角是两个与块同模量的软球（半径 1，中心距 0.438，三个压深），实心是公式、空心是边界元，两者重合，最多差 0.055%。软球的 c 比同距离的平底高，因为一半变形发生在球里，传到另一处的少。</figcaption></figure>
-<details><summary>推导</summary><p>由式 (1) \(F_1=2E&#x27;a\,\delta\) 反解，力为 \(F\) 时只靠自己要压的深度：</p>
+<details><summary>推导</summary><p>由式 (4) \(F_1=2E&#x27;a\delta\)，单独一个平底力为 \(F\) 时要压的深度：</p>
 <p>\[\delta_e(F)=\frac{F}{2E&#x27;a}\]</p>
-<p>代入式 (2) \(\delta=\delta_e(F)+F/(\pi E&#x27;r)\)：</p>
+<p>两个相同平底同时压，每个的力为 \(F\)，代入式 (3)：</p>
 <p>\[\delta=\frac{F}{2E&#x27;a}+\frac{F}{\pi E&#x27;r}=\frac{F}{2E&#x27;a}\Big(1+\frac{2a}{\pi r}\Big)\quad\Longrightarrow\quad F=\frac{2E&#x27;a\,\delta}{1+\dfrac{2a}{\pi r}}\]</p>
-<p>由式 (3) \(U=\tfrac12F\delta\)，压深相同时能量之比等于力之比：</p>
-<p>\[c=\frac{U_③}{U_①+U_②}=\frac{2\cdot\tfrac12F\delta}{2\cdot\tfrac12F_1\delta}=\frac{F}{F_1}=\frac{1}{1+\dfrac{2a}{\pi r}}\]</p></details>
+<p>由式 (5) \(U=\tfrac12F\delta\)，压深相同时，代入式 (6)：</p>
+<p>\[c=\frac{2\cdot\tfrac12F\delta}{2\cdot\tfrac12F_1\delta}=\frac{F}{F_1}=\frac{1}{1+\dfrac{2a}{\pi r}}\qquad(7)\]</p></details>
 <p>这套写法不用训练，逐项和边界元比：</p>
 <div class="tablewrap"><table>
 <thead>
